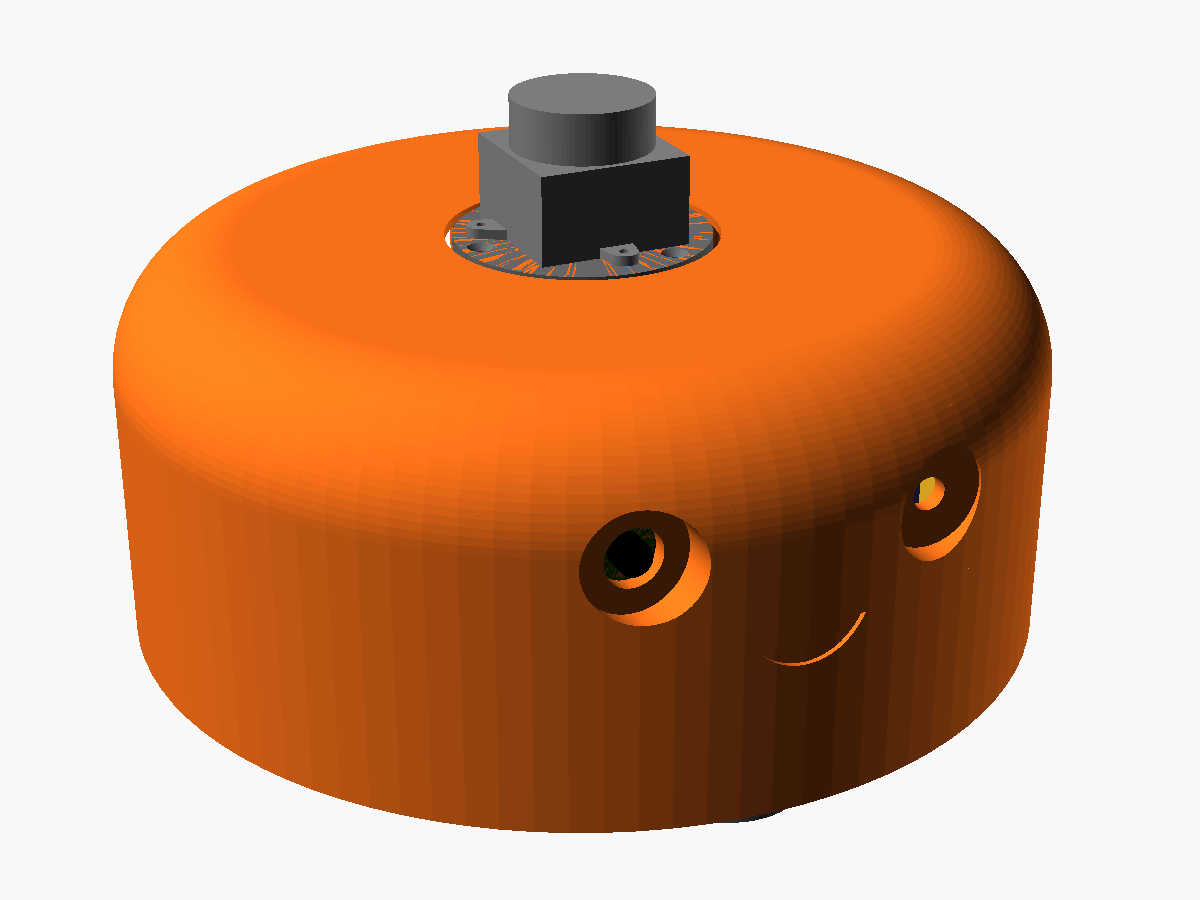
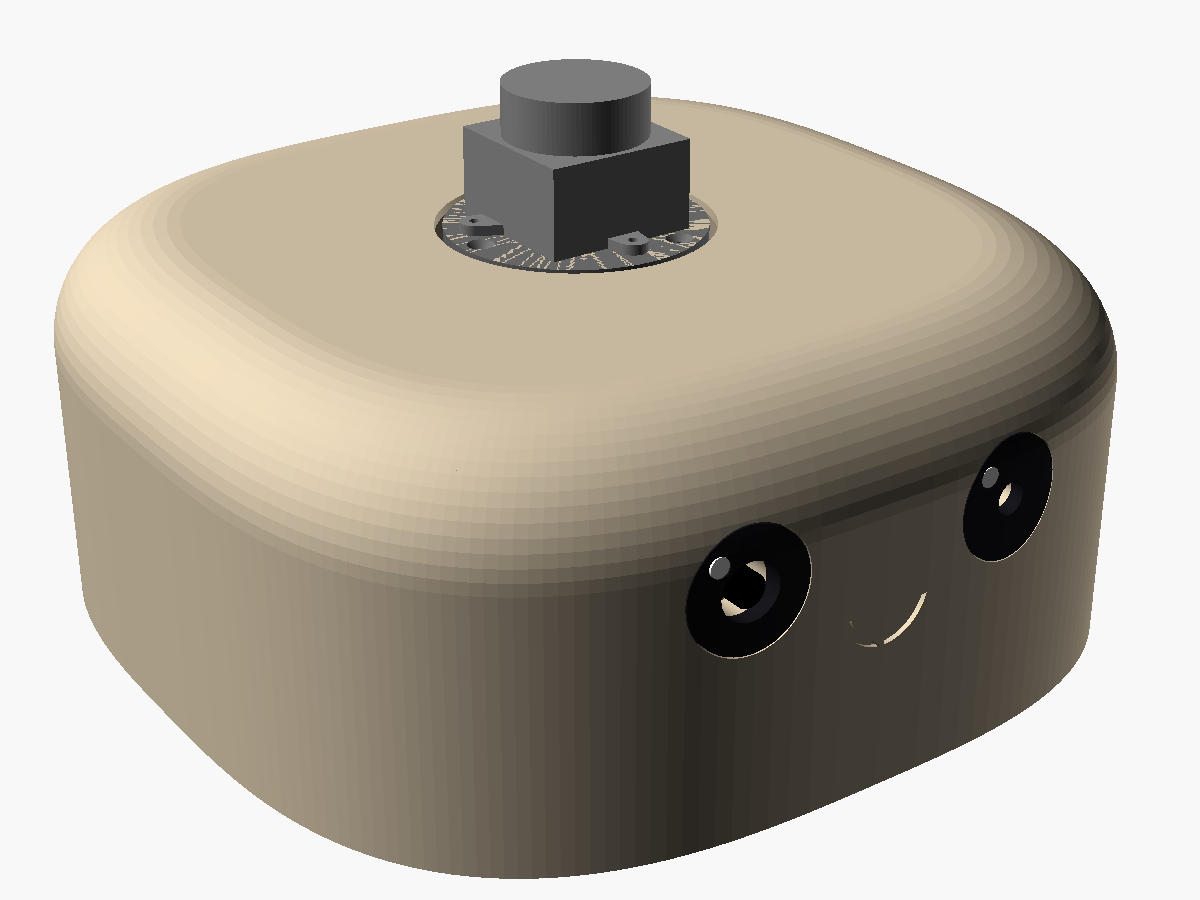
claude was on a halloween trip, get rid of pumpkin design

diff --git a/README.md b/README.md
@@ -1,6 +1,6 @@
 # Kiesel 🤖
 
-Kiesel is going to be a small, round robot for indoor use: it should build a map of its surroundings on its own and navigate autonomously within it. Technically, it is a differential-drive robot running ROS 2, with a 360° lidar as its "hat", a camera in its right eye and a friendly orange shell (an original character design).
+Kiesel is going to be a small, pebble-shaped robot for indoor use: it should build a map of its surroundings on its own and navigate autonomously within it. Technically, it is a differential-drive robot running ROS 2, with a 360° lidar as its "hat", a camera in its right eye and a sand-colored, rounded-square shell with a friendly face (an original character design).
 
 > **Status: planning phase.** The concept and a parametric CAD model are done, parts are being sourced. Nothing has been printed or programmed yet.
 
@@ -45,7 +45,7 @@ Kiesel is going to be a small, round robot for indoor use: it should build a map
 
 | | |
 |---|---|
-| Shell | Ø ≈ 232 mm, height ≈ 115 mm (≈ 150 mm with lidar) |
+| Shell | ≈ 232 × 232 mm (rounded square), height ≈ 115 mm (≈ 150 mm with lidar), sand-colored PETG |
 | Drive | 2 × JGA25-370, 12 V, 170 rpm, Hall encoders, 65 mm wheels |
 | Track width | 176 mm (axle 12 mm behind the robot center) |
 | Caster | front (printed with a 1" steel ball, or an off-the-shelf ball transfer unit) |
@@ -62,5 +62,5 @@ Kiesel is going to be a small, round robot for indoor use: it should build a map
 
 - **Base plate** carries everything: the motors hang below it in printed brackets; battery, computer, electronics and the lidar tower sit on top.
 - **Lidar tower** stands directly on the base plate; the lidar sits on a deck plate that lies flush in an opening of the shell.
-- **Shell** is a pure cover (4 screws) and can be lifted off over the lidar. Kiesel also drives without it.
+- **Shell** is a pure cover (4 screws) and can be lifted off over the lidar. Kiesel also drives without it. The eyes are separately printed black inserts.
 - **Camera** looks through the pupil of the right eye; the left eye is reserved for a distance sensor or an LED.
